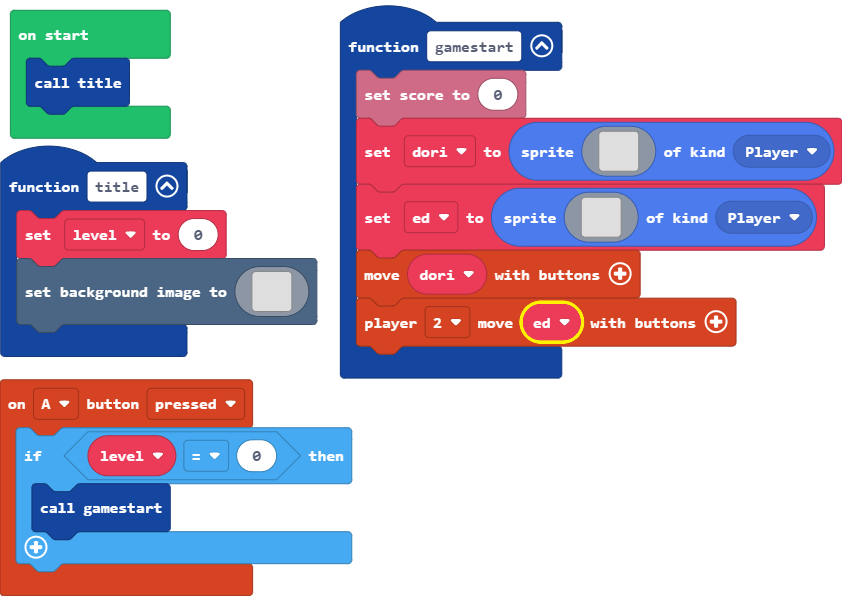
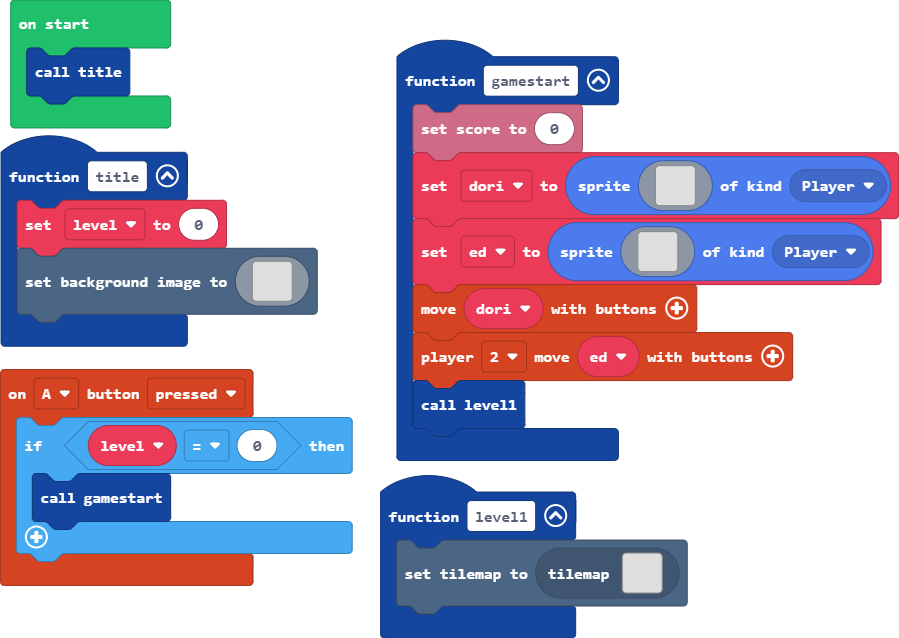
Update pxt.json, main.blocks, main.ts, tilemap.g.jres, tilemap.g.ts

diff --git a/tilemap.g.ts b/tilemap.g.ts
@@ -1,0 +1,39 @@
+// Auto-generated code. Do not edit.
+namespace myTiles {
+    //% fixedInstance jres blockIdentity=images._tile
+    export const transparency16 = image.ofBuffer(hex``);
+
+    helpers._registerFactory("tilemap", function(name: string) {
+        switch(helpers.stringTrim(name)) {
+            case "level1":
+            case "level1":return tiles.createTilemap(hex`1000100000000000000000000000000000000000000000000000000000000000000000000000000000000000000000000000000000000000000000000000000000000000000000000000000000000000000000000000000000000000000000000000000000000000000000000000000000000000000000000000000000000000000000000000000000000000000000000000000000000000000000000000000000000000000000000000000000000000000000000000000000000000000000000000000000000000000000000000000000000000000000000000000000000000000000000000000000000000000000000000000000000000000000000000000000000000`, img`
+. . . . . . . . . . . . . . . . 
+. . . . . . . . . . . . . . . . 
+. . . . . . . . . . . . . . . . 
+. . . . . . . . . . . . . . . . 
+. . . . . . . . . . . . . . . . 
+. . . . . . . . . . . . . . . . 
+. . . . . . . . . . . . . . . . 
+. . . . . . . . . . . . . . . . 
+. . . . . . . . . . . . . . . . 
+. . . . . . . . . . . . . . . . 
+. . . . . . . . . . . . . . . . 
+. . . . . . . . . . . . . . . . 
+. . . . . . . . . . . . . . . . 
+. . . . . . . . . . . . . . . . 
+. . . . . . . . . . . . . . . . 
+. . . . . . . . . . . . . . . . 
+`, [myTiles.transparency16], TileScale.Sixteen);
+        }
+        return null;
+    })
+
+    helpers._registerFactory("tile", function(name: string) {
+        switch(helpers.stringTrim(name)) {
+            case "transparency16":return transparency16;
+        }
+        return null;
+    })
+
+}
+// Auto-generated code. Do not edit.

diff --git a/main.ts b/main.ts
@@ -123,6 +123,9 @@ function title () {
         ................................................................................................................................................................
         `)
 }
+function level1 () {
+    tiles.setCurrentTilemap(tilemap`level1`)
+}
 controller.A.onEvent(ControllerButtonEvent.Pressed, function () {
     if (level == 0) {
         gamestart()
@@ -168,6 +171,7 @@ function gamestart () {
         `, SpriteKind.Player)
     controller.moveSprite(dori)
     controller.player2.moveSprite(ed)
+    level1()
 }
 let ed: Sprite = null
 let dori: Sprite = null
